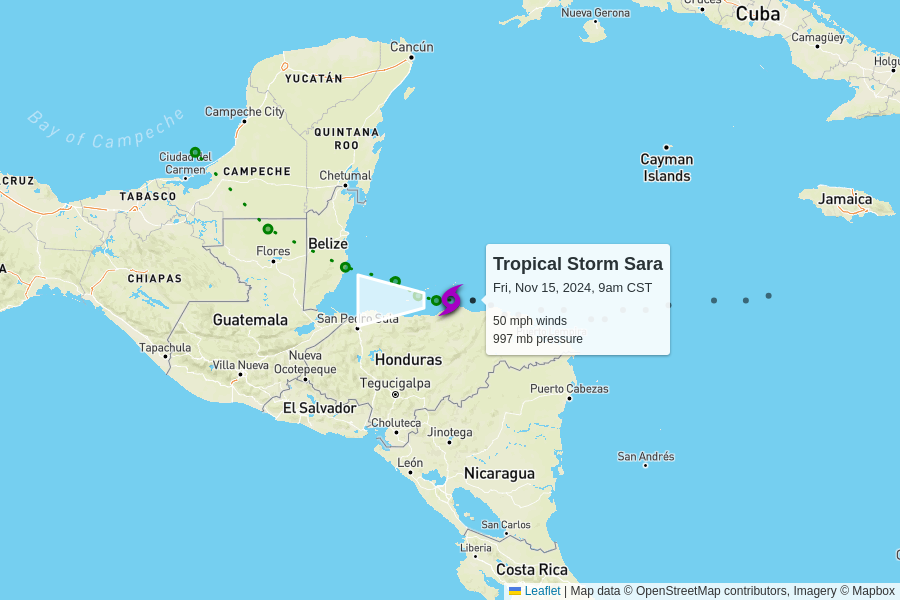
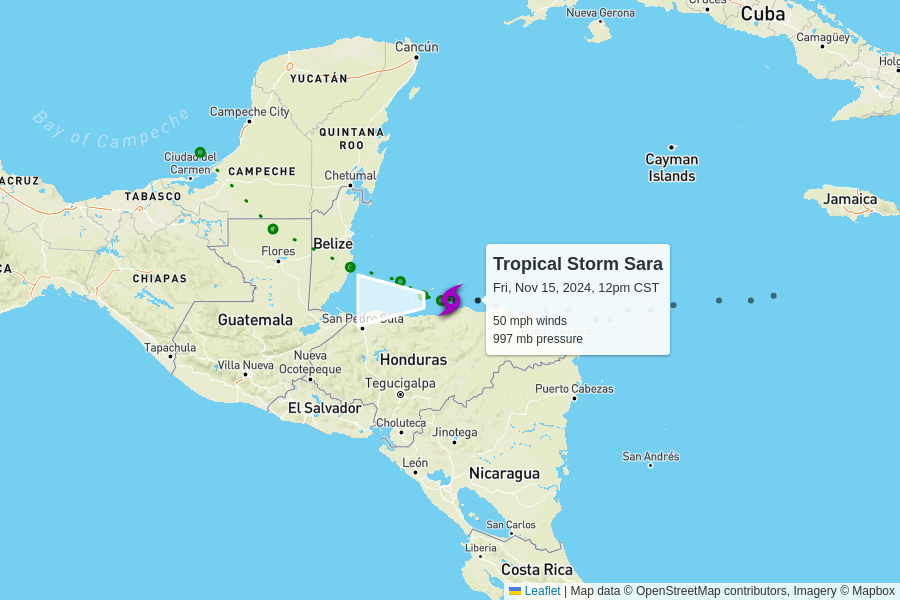
automatic update

diff --git a/docs/index.html b/docs/index.html
@@ -102,7 +102,7 @@
         <td colspan="6" class="storm category-0" >
           <h2>
             Tropical Storm Sara
-            <p class="updated">last updated <span data-time>2024-11-15T15:00:00.000Z</span></p>
+            <p class="updated">last updated <span data-time>2024-11-15T18:00:00.000Z</span></p>
           </h2>
         </td>
       </tr>
@@ -118,9 +118,9 @@
       <tr>
         <td class="spacer"></td>
         <td>50 mph<br>0 mph since last update</td>
-        <td>997 mb<br>-1 mb since last update</td>
+        <td>997 mb<br>0 mb since last update</td>
         <td>
-          5 mph to the west
+          2 mph to the west
           <br/>
           <span style="display: inline-block; font-size: 1.5em; transform: rotate(270deg);">↑</span>
         </td>
